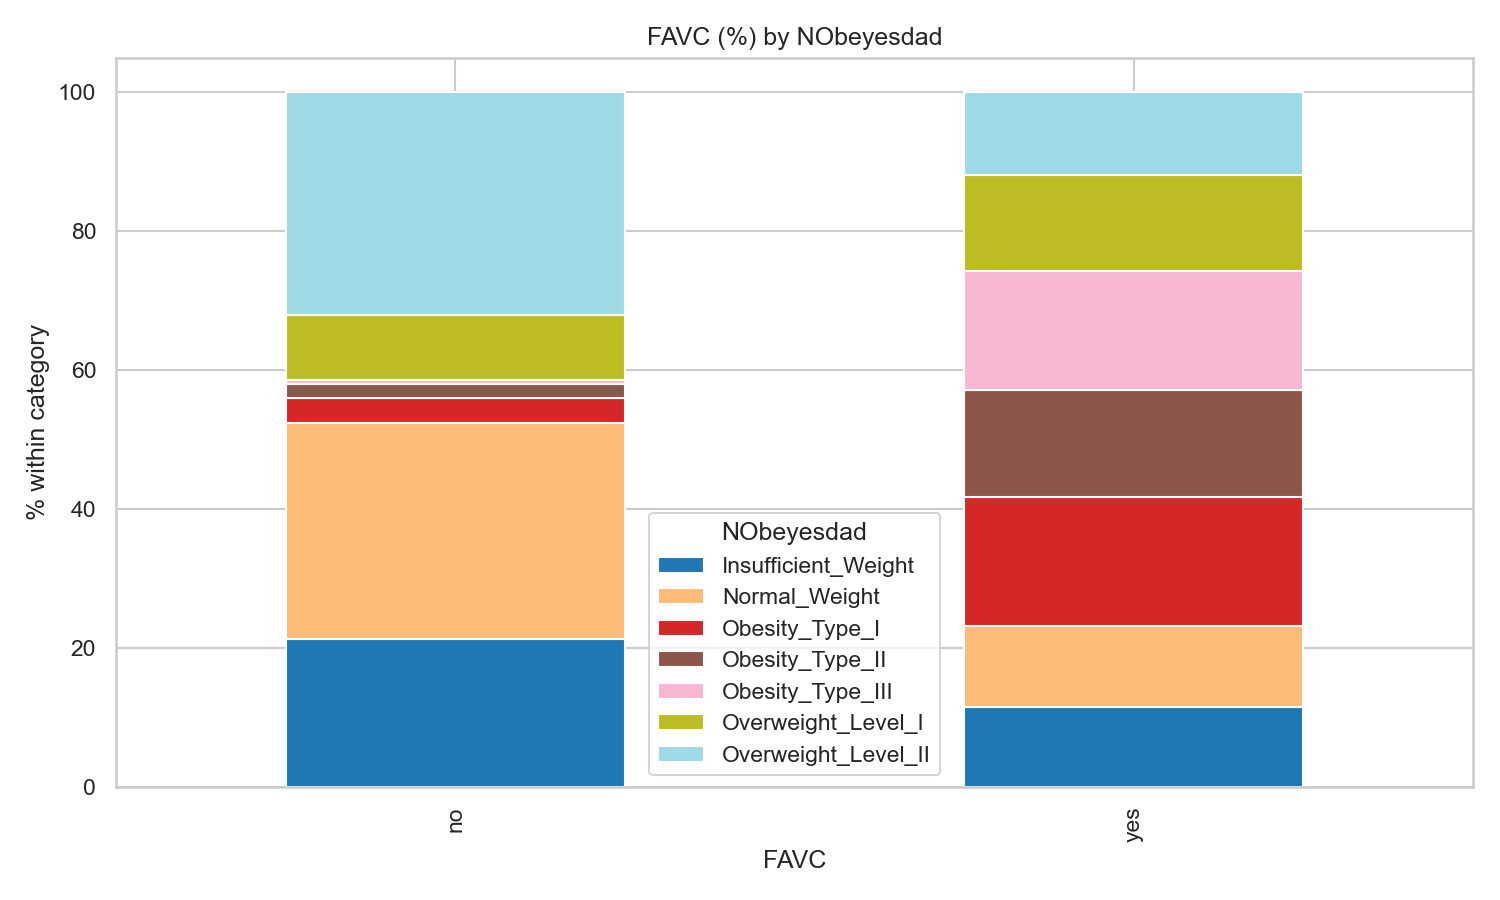
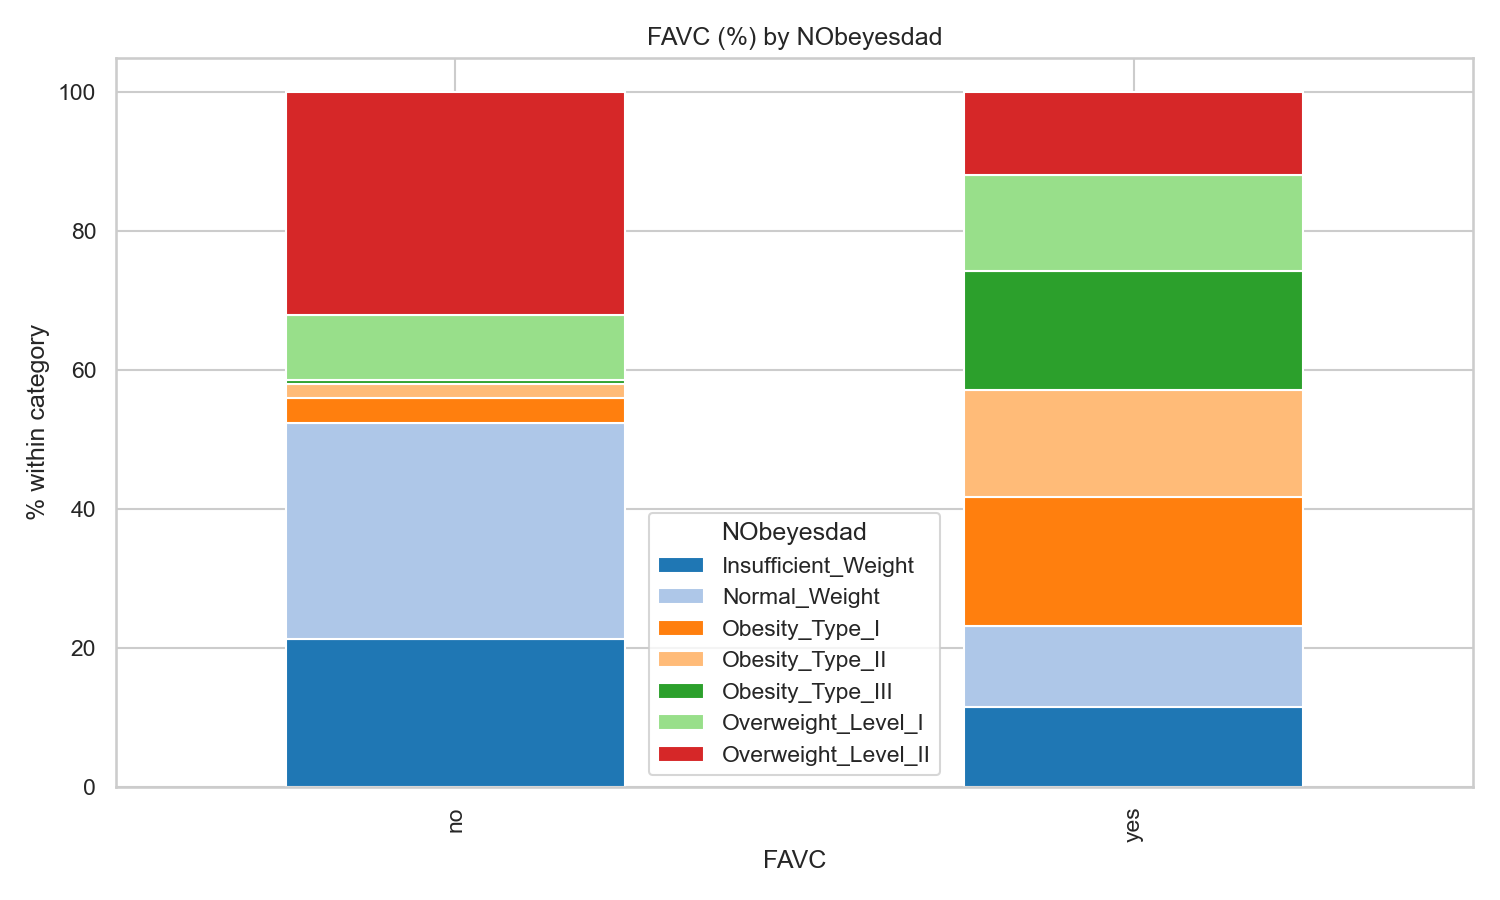
Arreglos de visualizaciones

Changed region(s): [[0.644, 0.0933, 0.8893, 0.8089], [0.184, 0.0933, 0.4907, 0.8711]]

diff --git a/visualizations.py b/visualizations.py
@@ -3,6 +3,7 @@ import pandas as pd
 import numpy as np
 import matplotlib.pyplot as plt
 import seaborn as sns
+import warnings
 
 sns.set(style="whitegrid")
 
@@ -27,6 +28,8 @@ def ensure_output_dirs():
 def main():
     infile = find_input_file()
     print("Loading:", infile)
+    # suppress non-critical warnings to keep terminal output clean
+    warnings.filterwarnings("ignore")
     sep = ";" if infile.endswith("_clean.csv") or infile.endswith("_hw_imputed.csv") or infile == "Tema_6.csv" else ","
     df = pd.read_csv(infile, sep=sep, skipinitialspace=True)
 
@@ -42,16 +45,38 @@ def main():
     target = 'NObeyesdad' if 'NObeyesdad' in df.columns else None
     if target:
         counts = df[target].value_counts()
+        print('\n=== Distribución de ' + target + ' ===')
+        pct = (counts / counts.sum() * 100).round(2)
+        display_df = pd.DataFrame({'cantidad': counts, 'porcentaje': pct})
+        print(display_df.to_string())
+        n_classes = len(counts)
+        palette = sns.color_palette('tab20', n_colors=n_classes)
         plt.figure(figsize=(8,6))
-        sns.countplot(y=target, data=df, order=counts.index, palette='tab10')
+        sns.countplot(y=target, data=df, order=counts.index, palette=palette)
         plt.title('Distribución de NObeyesdad')
         plt.tight_layout()
         plt.savefig('outputs/class_distribution.png', dpi=150)
         plt.close()
 
     # Histogramas para algunas columnas numericas
+    def print_numeric_summary(df, col):
+        s = df[col].dropna()
+        if s.empty:
+            print(f'No hay datos en {col}')
+            return
+        desc = s.describe()
+        iqr = desc['75%'] - desc['25%']
+        lower = desc['25%'] - 1.5 * iqr
+        upper = desc['75%'] + 1.5 * iqr
+        outliers = s[(s < lower) | (s > upper)].shape[0]
+        print(f"\n--- Estadísticas para {col} ---")
+        print(f"n={int(desc['count'])}, media={desc['mean']:.3f}, mediana={desc['50%']:.3f}, desviación_estándar={desc['std']:.3f}")
+        print(f"mín={desc['min']:.3f}, 25%={desc['25%']:.3f}, 75%={desc['75%']:.3f}, máx={desc['max']:.3f}")
+        print(f"IQR={iqr:.3f}, outliers_regla_IQR={outliers}")
+
     for col in ['Age', 'Height', 'Weight', 'BMI']:
         if col in df.columns:
+            print_numeric_summary(df, col)
             plt.figure(figsize=(6,4))
             sns.histplot(df[col].dropna(), bins=40, kde=True, color='#2b8cbe')
             plt.title(f'Distribución: {col}')
@@ -64,8 +89,13 @@ def main():
     if target:
         col = 'Age'
         if col in df.columns:
+            group_stats = df.groupby(target)[col].agg(['count','mean','median','std']).sort_values('median')
+            print(f"\n=== Estadísticas de {col} por {target} ===")
+            gs = group_stats.rename(columns={'count':'cantidad','mean':'media','median':'mediana','std':'desviación_estándar'})
+            print(gs.round(3).to_string())
+
             plt.figure(figsize=(10,6))
-            order = df.groupby(target)[col].median().sort_values().index
+            order = group_stats.sort_values('median').index
             sns.boxplot(x=col, y=target, data=df, order=order, palette='vlag')
             plt.title(f'{col} por {target}')
             plt.tight_layout()
@@ -75,9 +105,13 @@ def main():
     # Height vs Weight scatter 
     if 'Height' in df.columns and 'Weight' in df.columns:
         sub = df.sample(frac=0.25, random_state=42) if len(df) > 2000 else df
+        pair = df[['Height','Weight']].dropna()
+        corr = pair.corr().iloc[0,1]
+        print(f"\nAltura vs Peso: pares_n={len(pair)}, correlación_pearson={corr:.3f}")
+
         plt.figure(figsize=(8,6))
         if target:
-            palette = sns.color_palette('tab20')
+            palette = sns.color_palette('tab20', n_colors=df[target].nunique())
             sns.scatterplot(x='Height', y='Weight', hue=target, data=sub, palette=palette, alpha=0.9, s=40)
             plt.legend(bbox_to_anchor=(1.05,1), loc='upper left')
         else:
@@ -92,7 +126,11 @@ def main():
         if target:
             cros = pd.crosstab(df[col], df[target], normalize='index')*100
             top = cros.iloc[:20]
-            top.plot(kind='bar', stacked=True, figsize=(10,6), colormap='tab20')
+            print(f"\n=== Tabla % de {col} por {target} (primeras 20 filas) ===")
+            print(top.round(2).to_string())
+            n_series = top.shape[1]
+            colors = sns.color_palette('tab20', n_colors=n_series)
+            ax = top.plot(kind='bar', stacked=True, figsize=(10,6), color=colors)
             plt.ylabel('% within category')
             plt.title(f'{col} (%) by {target}')
             plt.tight_layout()
@@ -100,7 +138,7 @@ def main():
             plt.savefig(outname, dpi=150)
             plt.close()
 
-    print('All visualizations saved to outputs and tables to outputs/tables')
+    print('\nAll visualizations saved to outputs')
 
 
 if __name__ == '__main__':
